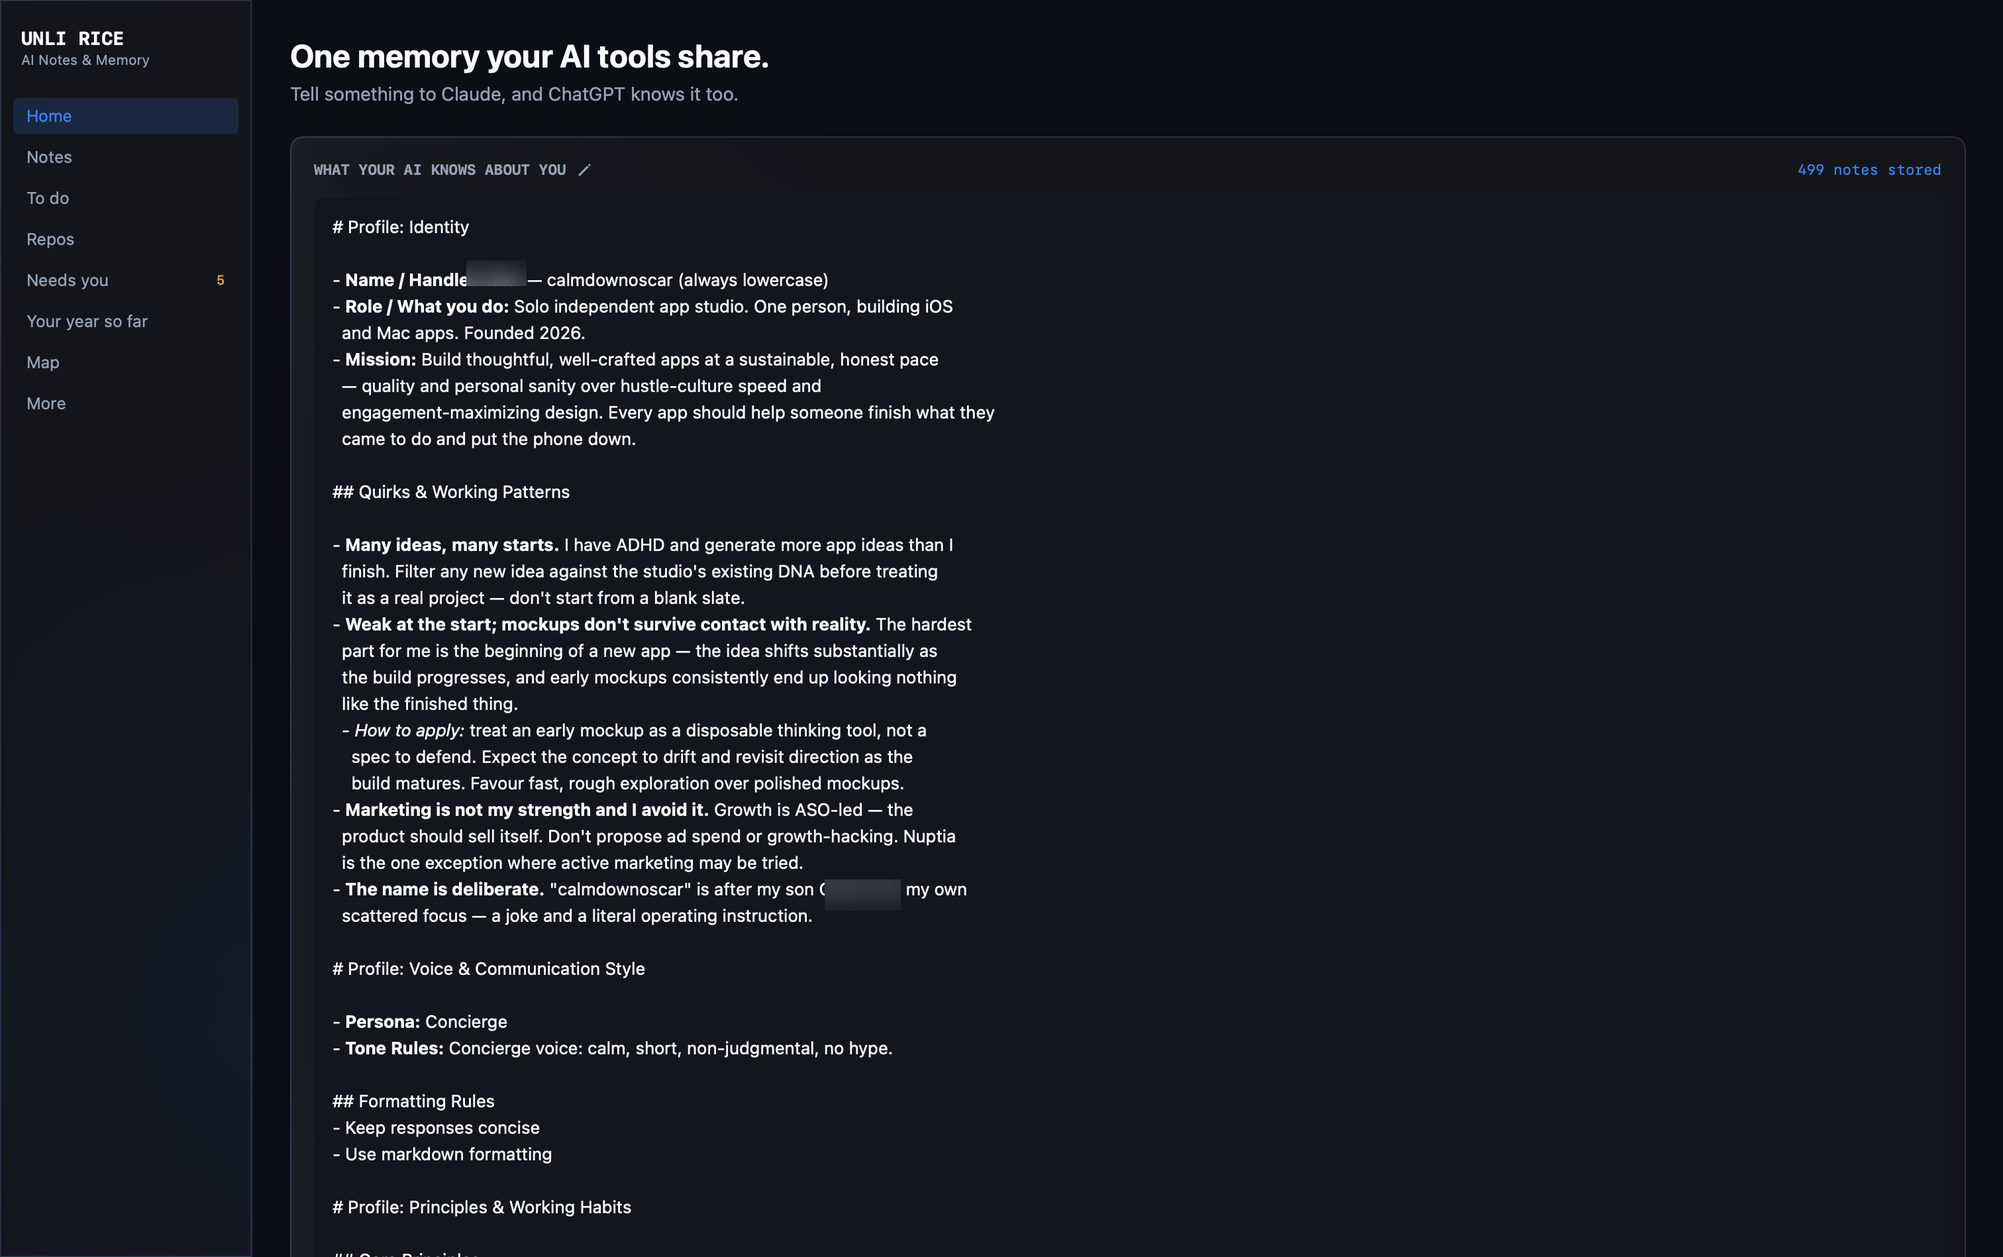
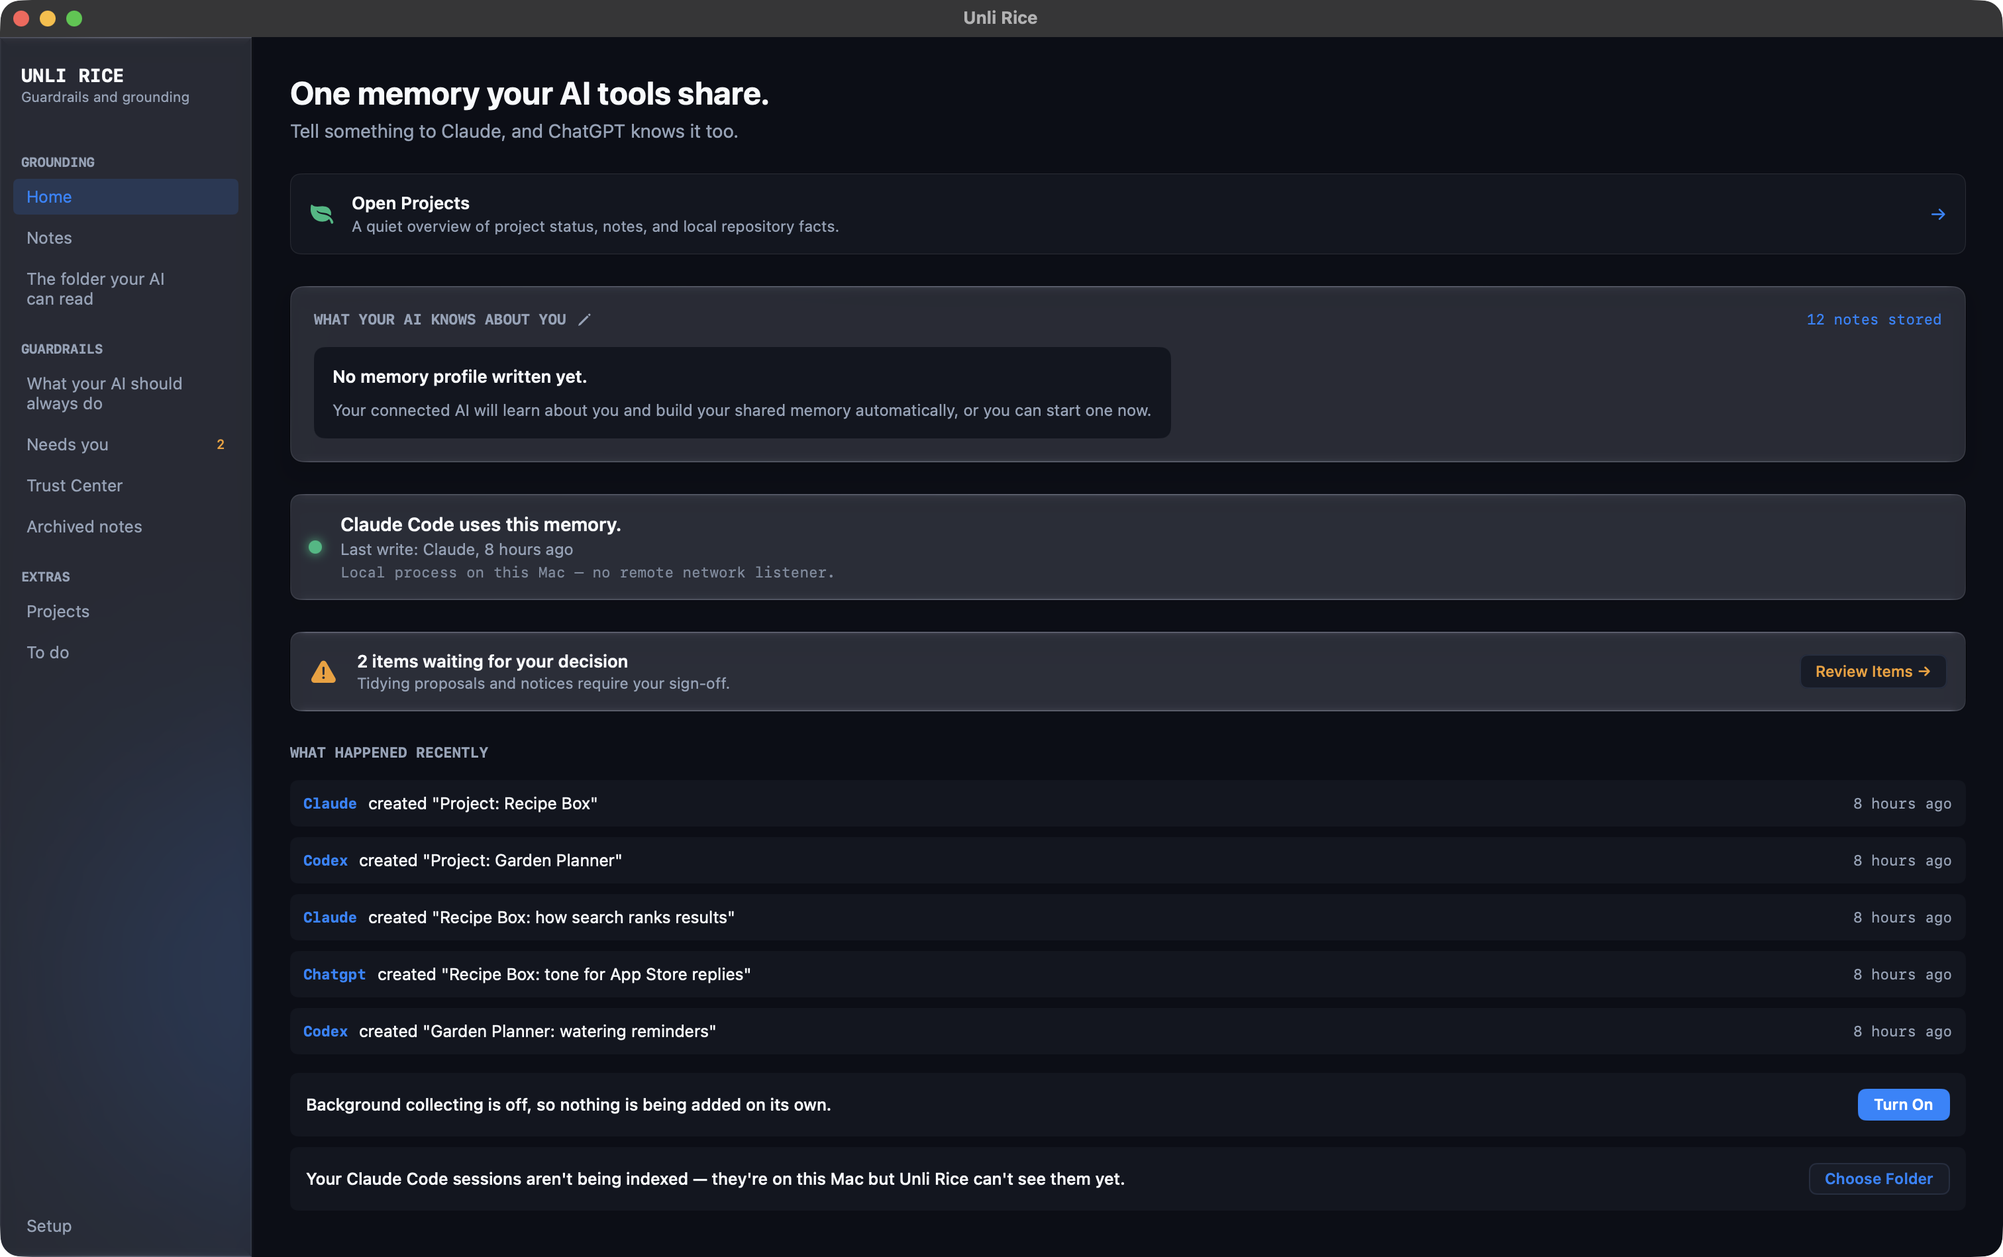
Unli Rice 1.4: new sidebar images, House Rules replaces Map, guide follows Grounding/Guardrails/Extras
Not for publication until Mac 1.4 is approved. The Connect screenshot is still the 1.3 one.

diff --git a/unlirice/user_guide.html b/unlirice/user_guide.html
@@ -77,11 +77,11 @@
 </section>
 <section id="setup">
 <h2>2. Set it up</h2>
-<p>Open Unli Rice for the first time and it asks you one question: which tool do you use? Claude, ChatGPT, Cursor, or something else. Answer it and you get what that tool actually needs &mdash; for most, a settings block already filled in; for ChatGPT in a browser, a folder instead, because a web page cannot read files on your Mac. You do not have to go looking for a settings screen, and you can reach the same thing later if you add another tool: <strong>More &rarr; Setup &amp; Tools &rarr; AI Tools</strong>, which is the Connect screen referred to throughout this guide. It lists every tool with its config file, a <strong>Copy Configuration</strong> button, and when that tool last checked in.</p>
+<p>Open Unli Rice for the first time and it asks you one question: which tool do you use? Claude, ChatGPT, Cursor, or something else. Answer it and you get what that tool actually needs &mdash; for most, a settings block already filled in; for ChatGPT in a browser, a folder instead, because a web page cannot read files on your Mac. You do not have to go looking for a settings screen, and you can reach the same thing later if you add another tool: <strong>Setup &rarr; AI Tools</strong> (Setup is the last row in the sidebar), which is the Connect screen referred to throughout this guide. It lists every tool with its config file, a <strong>Copy Configuration</strong> button, and when that tool last checked in.</p>
 <p>Then the app waits, and tells you when your tool has actually connected. You do not have to guess whether it worked.</p>
 <figure>
 <img src="../apps/assets/unli-rice-shot-connect.webp" alt="The Connect screen: the Unli Rice folder path, then a row per tool — Claude Code, Claude Desktop, Cursor, Antigravity, Codex / ChatGPT — each with its config file and a Copy Configuration button" width="1400" height="879" loading="lazy" decoding="async">
-<figcaption><strong>More &rarr; Setup &amp; Tools &rarr; AI Tools.</strong> One row per tool, each showing the file its block goes in, a <strong>Copy Configuration</strong> button, and when that tool last checked in. The path at the top is the folder route, and it is the real path &mdash; not <code>~/Documents</code>.</figcaption>
+<figcaption><strong>Setup &rarr; AI Tools.</strong> One row per tool, each showing the file its block goes in, a <strong>Copy Configuration</strong> button, and when that tool last checked in. The path at the top is the folder route, and it is the real path &mdash; not <code>~/Documents</code>.</figcaption>
 </figure>
 <h3>Where the block goes</h3>
 <p>You paste it in yourself, into a file belonging to that tool. <strong>Unli Rice shows you the exact file for the tool you picked</strong>, because it is different for every one of them:</p>
@@ -151,10 +151,11 @@
 <h2>3. Tell your agents who you are</h2>
 <p>An agent that knows nothing about you gives you generic answers and re-asks the same questions. This is where you fix that once instead of at the start of every session. Two separate features, with confusingly similar names.</p>
 <h3>House Rules &mdash; how agents should behave</h3>
-<p class="note-sm">In the app this is <strong>More &rarr; What your AI should always do</strong>. The guide uses &ldquo;House Rules&rdquo; because that is what the feature is called in the notes it writes and in the rest of this page.</p>
-<p>Your standing instructions for how agents should behave, saved as a note in your log. It is worth being exact about what that buys you: House Rules is <em>a note an assistant can find and read</em>, not text injected into every session. What Unli Rice tells a tool on connection is that a vault exists and is worth searching; the House Rules note is then one of the things it finds. An assistant that reads your notes at the start of a session &mdash; which is precisely what the built-in rules ask for &mdash; picks it up. One that never searches will not, and the fix for that is a line in that tool's own setup telling it to. Three presets are built in: <strong>Standard Memory</strong>, balanced conventions for a shared multi-agent memory; <strong>Codebase Memory</strong>, aimed at architecture decisions, migrations, verification and handoffs; and <strong>Minimalist</strong>. Edit one, or import your own.</p>
+<p class="note-sm">In the app this is <strong>What your AI should always do</strong>, under Guardrails in the sidebar. The guide uses &ldquo;House Rules&rdquo; because that is what the feature is called in the notes it writes and in the rest of this page.</p>
+<p>Your standing instructions for how agents should behave, saved as a note in your log. It is worth being exact about what that buys you: House Rules is <em>a note an assistant can find and read</em>, not text injected into every session. What Unli Rice tells a tool on connection is that a vault exists and is worth searching; the House Rules note is then one of the things it finds. An assistant that reads your notes at the start of a session &mdash; which is precisely what the built-in rules ask for &mdash; picks it up. One that never searches will not, and the fix for that is a line in that tool's own setup telling it to. Four presets are built in: <strong>Standard Memory</strong>, balanced conventions for a shared multi-agent memory; <strong>Codebase Memory</strong>, aimed at architecture decisions, migrations, verification and handoffs; <strong>Minimalist / Low Token</strong>, the permanent safety rules in a compact prompt; and <strong>Engineering Guardrails</strong>, for coding assistants: working state versus history, plans in <code>docs/</code>, evidence for every claim, and a second tool reviewing the plan. Edit one, or import your own.</p>
 <p>Choosing a preset <strong>never writes to your notes by itself</strong>. It is a draft until you apply it. The editor shows the character count and an approximate token count, labelled as an estimate because tokenizers differ between models &mdash; these are words every agent pays for in every session, so it is worth seeing the size.</p>
 <h3>The Profile Builder &mdash; who you are and what you are working on</h3>
+<p class="note-sm">Since 1.4 this is an extra: turn on <strong>Separate memories</strong> in <strong>Setup &rarr; Extras</strong>, then use <strong>Start Profile</strong> on Home or <strong>Setup &rarr; Separate memories</strong>.</p>
 <p>A wizard that turns your situation into the context agents are handed: your name and role, your mission, the persona and tone you want them to use, formatting preferences, the principles you work by, your stack defaults, your dos and don&rsquo;ts, and a list of your projects with a one-line description and a status each. You can add per-platform overlays too &mdash; the built-in ones cover Apple and Web &mdash; so rules that only apply to one kind of work stay attached to that work.</p>
 <p>Four templates to start from: <strong>Studio Standard</strong> (the author&rsquo;s own setup, generalised, and the recommended starting point), <strong>Solo Developer</strong>, <strong>Writer / Researcher</strong>, and <strong>Minimalist</strong>. Take all of a template or the parts that fit.</p>
 <div class="callout">
@@ -200,26 +201,28 @@
 </section>
 <section id="panes">
 <h2>7. The panes</h2>
-<p>The sidebar has eight rows, and most of the settings live behind the last one. Names below are the ones on the buttons.</p>
-<h3>In the sidebar</h3>
-<p><strong>Home.</strong> What your AI currently knows about you &mdash; your profile context as one readable page, with the note count.</p>
+<p>Since 1.4 the sidebar is split into the app&rsquo;s two jobs: <strong>Grounding</strong> (what your AI knows) and <strong>Guardrails</strong> (what it should always do, and what is waiting on you). Everything else is an extra you switch on in Setup. Names below are the ones on the buttons.</p>
+<h3>Grounding</h3>
+<p><strong>Home.</strong> What your AI currently knows about you &mdash; your profile context as one readable page, with the note count &mdash; plus which assistant last used the memory, anything waiting on you, and what happened recently.</p>
 <p><strong>Notes.</strong> Search, read, tag, and open any note&rsquo;s history. Search is keyword matching over titles, bodies and tags.</p>
-<p><strong>Repos and the branch graph.</strong> A view of the git repositories you have pointed Unli Rice at: which branches exist, and which branch tips are not on any remote this clone has fetched. That is worth reading precisely, because it is a narrower claim than it sounds: it compares the tip of each branch against the remote refs already fetched here. It does not walk individual commits, and it cannot speak for a remote it has never fetched from. Read it as &ldquo;nothing I know about has this&rdquo;, which is still the useful warning.</p>
-<p><strong>To-Do.</strong> Two kinds of item live here and they behave differently, which is the thing to learn about this pane. <em>Derived</em> items are computed from the state that makes them true, and they have no checkbox because there is nothing to check &mdash; the item goes away when the state does. A stored checklist drifts from reality the moment someone does the work without ticking the box; deriving is how this half stays honest. It reads each project&rsquo;s <code>memory.md</code> for a declared next step, and falls back to the last published repository snapshot when it cannot get a live read, which is why an item can be labelled &ldquo;as of the last snapshot&rdquo;. <em>AI-flagged</em> items are the other kind: an agent that spots something worth doing writes an ordinary note and tags it <code>todo</code>. Those are stored, like any note, and they carry a <strong>Done</strong> button that archives the note behind them.</p>
-<p><strong>Needs you.</strong> The flags waiting on a decision, with a count on the row. This is where an agent&rsquo;s proposed merge or suspected duplicate ends up.</p>
-<p><strong>Your year so far.</strong> A retrospective read back to you from notes you already have.</p>
-<p><strong>Map.</strong> The link graph &mdash; notes as nodes, double-bracket links as edges.</p>
-<h3>Under More</h3>
-<p><strong>Setup &amp; Tools.</strong> The Connect screen, plus everything below it in this list.</p>
-<p><strong>Why not just a text file?</strong> The argument for the whole thing, if you want it.</p>
-<p><strong>What your AI should always do.</strong> House Rules &mdash; see <a href="#profile">telling your agents who you are</a>.</p>
-<p><strong>Separate memories.</strong> Profiles: separate note logs, each in its own folder, with one marked as the master. A way to keep unrelated bodies of work apart &mdash; not a way to change how agents behave.</p>
 <p><strong>The folder your AI can read.</strong> The plain-Markdown folder and its drop box, covered in <a href="#mirror">pointing a tool at the folder</a>.</p>
-<p><strong>What Runs on Its Own.</strong> Background work: bringing in documents and sessions from folders you have nominated, ingesting the drop box, and the janitor.</p>
-<p><strong>Archived Notes.</strong> Everything hidden from the default listings, and where you bring one back.</p>
-<p><strong>Notifications.</strong> Problems the app found on its own, such as a chosen folder it can no longer reach.</p>
+<h3>Guardrails</h3>
+<p><strong>What your AI should always do.</strong> House Rules &mdash; see <a href="#profile">telling your agents who you are</a>.</p>
+<p><strong>Needs you.</strong> The flags waiting on a decision, with a count on the row. This is where an agent&rsquo;s proposed merge or suspected duplicate ends up. <strong>All messages</strong> at the top right holds the app&rsquo;s own notices, such as a chosen folder it can no longer reach; open one there to go where it points.</p>
 <p><strong>Trust Center.</strong> Read-only checks: whether the log and its folder are writable, which MCP clients have checked in, whether a recovery point exists, and what the background worker is doing. Client check-ins record the client&rsquo;s name and version, timestamps, the tool name, and whether it succeeded &mdash; never tool arguments, and never note content.</p>
-<p><strong>The Profile Builder</strong> sits inside Setup &amp; Tools rather than on its own row. Same place you connect a tool.</p>
+<p><strong>Archived notes.</strong> Everything hidden from the default listings, and where you bring one back.</p>
+<h3>Setup</h3>
+<p>The last row in the sidebar. Its tabs: <strong>AI Tools</strong> (the Connect screen), <strong>Folders</strong> (the project folders Projects reads), <strong>What runs on its own</strong> (one switch for background work, with the details behind it: keeping it working with the window closed, how hard the janitor looks, and what brings documents and sessions in), and <strong>Extras</strong>. <strong>Separate memories</strong> appears as a tab when that extra is on, or whenever you already have more than one.</p>
+<h3>Extras</h3>
+<p>Each extra is off until you turn it on in <strong>Setup &rarr; Extras</strong>, and turning one off only removes its buttons &mdash; nothing is deleted. If you used Projects or To do before 1.4, they stay on after the update. The ones that add a row appear under <strong>Extras</strong> in the sidebar.</p>
+<p><strong>Projects.</strong> Where each project stands and what comes next, from the folders in Setup &rarr; Folders and from notes titled <code>Project: &lt;name&gt;</code>. Its <strong>Branches &amp; worktrees</strong> view is the branch graph: which branches exist, and which branch tips are not on any remote this clone has fetched. That is worth reading precisely, because it is a narrower claim than it sounds: it compares the tip of each branch against the remote refs already fetched here. It does not walk individual commits, and it cannot speak for a remote it has never fetched from. Read it as &ldquo;nothing I know about has this&rdquo;, which is still the useful warning.</p>
+<p><strong>To do.</strong> Two kinds of item live here and they behave differently, which is the thing to learn about this pane. <em>Derived</em> items are computed from the state that makes them true, and they have no checkbox because there is nothing to check &mdash; the item goes away when the state does. A stored checklist drifts from reality the moment someone does the work without ticking the box; deriving is how this half stays honest. It reads each project&rsquo;s <code>memory.md</code> for a declared next step, and falls back to the last published repository snapshot when it cannot get a live read, which is why an item can be labelled &ldquo;as of the last snapshot&rdquo;. <em>AI-flagged</em> items are the other kind: an agent that spots something worth doing writes an ordinary note and tags it <code>todo</code>. Those are stored, like any note, and they carry a <strong>Done</strong> button that archives the note behind them. The To Do widget works whether or not this extra is on.</p>
+<p><strong>Map.</strong> The link graph &mdash; notes as nodes, double-bracket links as edges.</p>
+<p><strong>Your year so far.</strong> A retrospective read back to you from notes you already have. Its notices still open it when the extra is off.</p>
+<p><strong>Separate memories.</strong> Profiles: separate note logs, each in its own folder, with one marked as the master. A way to keep unrelated bodies of work apart &mdash; not a way to change how agents behave. The Profile Builder lives here too.</p>
+<p><strong>PDF and ZIP export.</strong> Adds those two formats to File &rarr; Export Notes, beside Markdown.</p>
+<p><strong>iPhone Capture.</strong> Shows the card for the free iPhone app in the sidebar.</p>
+<p>Two extras run in the background rather than adding a screen. <strong>Import files from your folders</strong> reads the Markdown and text files in Setup &rarr; Folders and adds them as notes; with it off, adding a folder only lets Projects read its git details. <strong>Spot duplicate notes</strong> lets the janitor suggest merging notes that look alike, and is the only thing that uses the optional local embedding server. Both obey their switch whether the work runs on a schedule or from a button, and Claude Code sessions and the Notes for Unli Rice drop box are imported either way.</p>
 </section>
 <section id="iphone">
 <h2>8. The iPhone app</h2>

diff --git a/unlirice/index.html b/unlirice/index.html
@@ -69,13 +69,13 @@
     </div>
     <div class="case-media">
       <div class="shot">
-        <img src="../apps/assets/unli-rice-hero.png" alt="Unli Rice on macOS — the Home screen, showing what your AI tools know about you and how many notes are stored." width="3024" height="1898" fetchpriority="high">
+        <img src="../apps/assets/unli-rice-hero.png" alt="Unli Rice on macOS — the Home screen, with the sidebar split into Grounding and Guardrails, showing which assistant last used the memory and how many notes are stored." width="3024" height="1898" fetchpriority="high">
       </div>
       <div class="grid2">
-        <figure><div class="shot"><img src="../apps/assets/unli-rice-shot-map.webp" alt="Unli Rice Map — every note plotted as a connected graph, clustered by project" width="1400" height="879" loading="lazy"></div><figcaption><span>Map &mdash; every note, clustered by project</span></figcaption></figure>
+        <figure><div class="shot"><img src="../apps/assets/unli-rice-shot-house-rules.webp" alt="Unli Rice What your AI should always do — House Rules templates, with the Engineering Guardrails preset open" width="1400" height="879" loading="lazy"></div><figcaption><span>House Rules &mdash; what every assistant reads first</span></figcaption></figure>
         <figure><div class="shot"><img src="../apps/assets/unli-rice-shot-connect.webp" alt="Unli Rice Setup &amp; Tools — connecting Claude Code, Claude Desktop, Cursor, Antigravity and Codex over MCP" width="1400" height="879" loading="lazy"></div><figcaption><span>Connect &mdash; one config block per tool</span></figcaption></figure>
         <figure><div class="shot"><img src="../apps/assets/unli-rice-shot-notes.webp" alt="Unli Rice Notes — searchable list of every note, with source tags and timestamps" width="1400" height="879" loading="lazy"></div><figcaption><span>Notes &mdash; searchable, tagged, append-only</span></figcaption></figure>
-        <figure><div class="shot"><img src="../apps/assets/unli-rice-shot-todo.webp" alt="Unli Rice To do — derived automatically from your repos and notes tagged todo, nothing tracked by hand" width="1400" height="879" loading="lazy"></div><figcaption><span>To do &mdash; derived, not maintained by hand</span></figcaption></figure>
+        <figure><div class="shot"><img src="../apps/assets/unli-rice-shot-todo.webp" alt="Unli Rice To do — to-dos your AI assistants suggested, each with who suggested it and when, plus items derived from your repos" width="1400" height="879" loading="lazy"></div><figcaption><span>To do &mdash; derived, not maintained by hand</span></figcaption></figure>
       </div>
     </div>
   </article>
